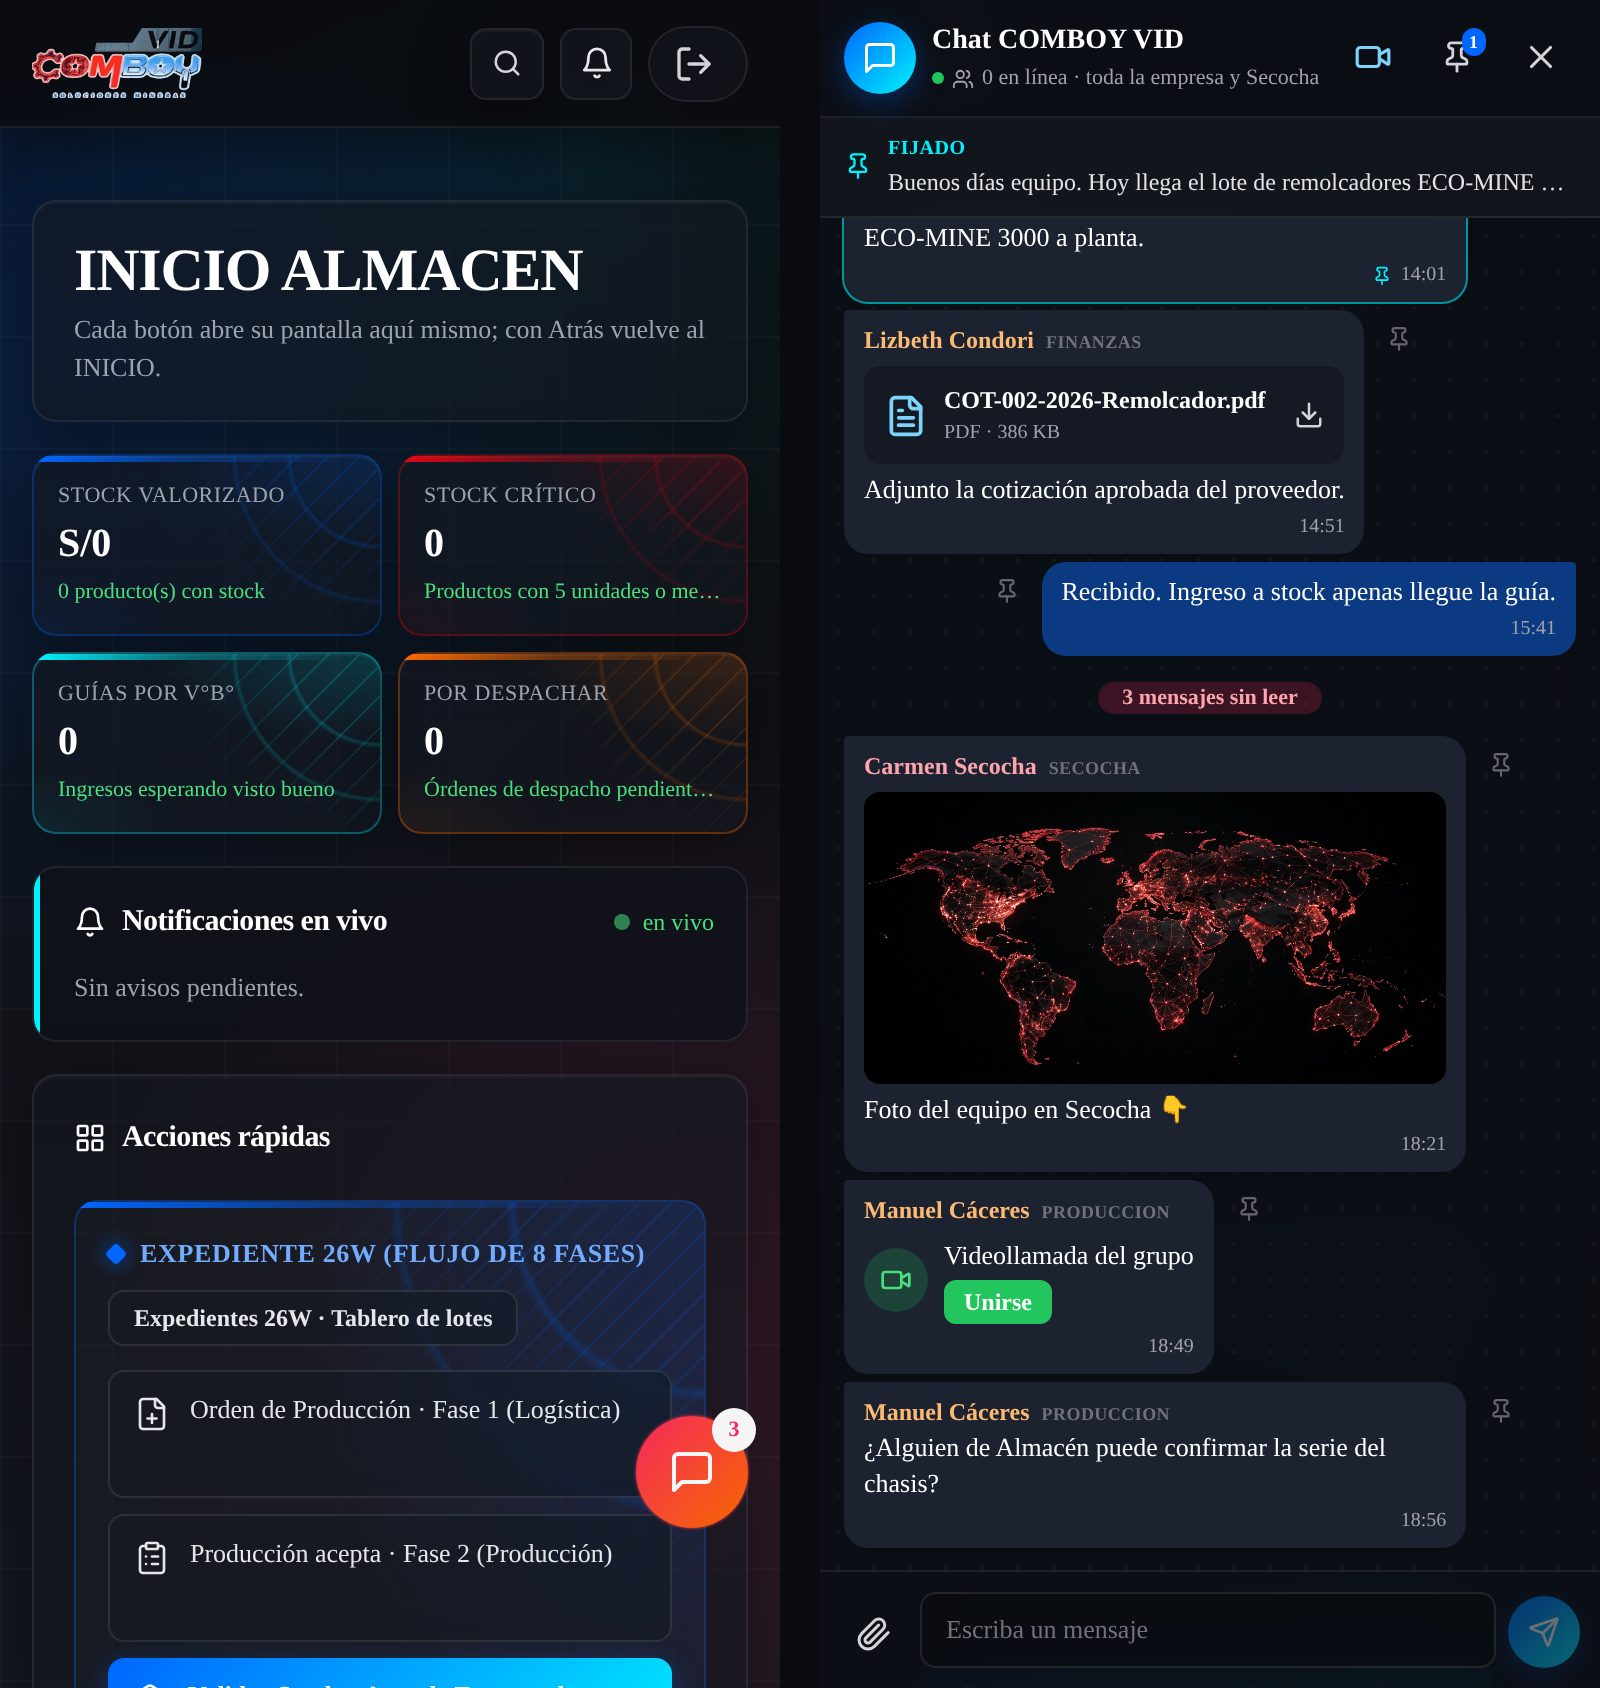
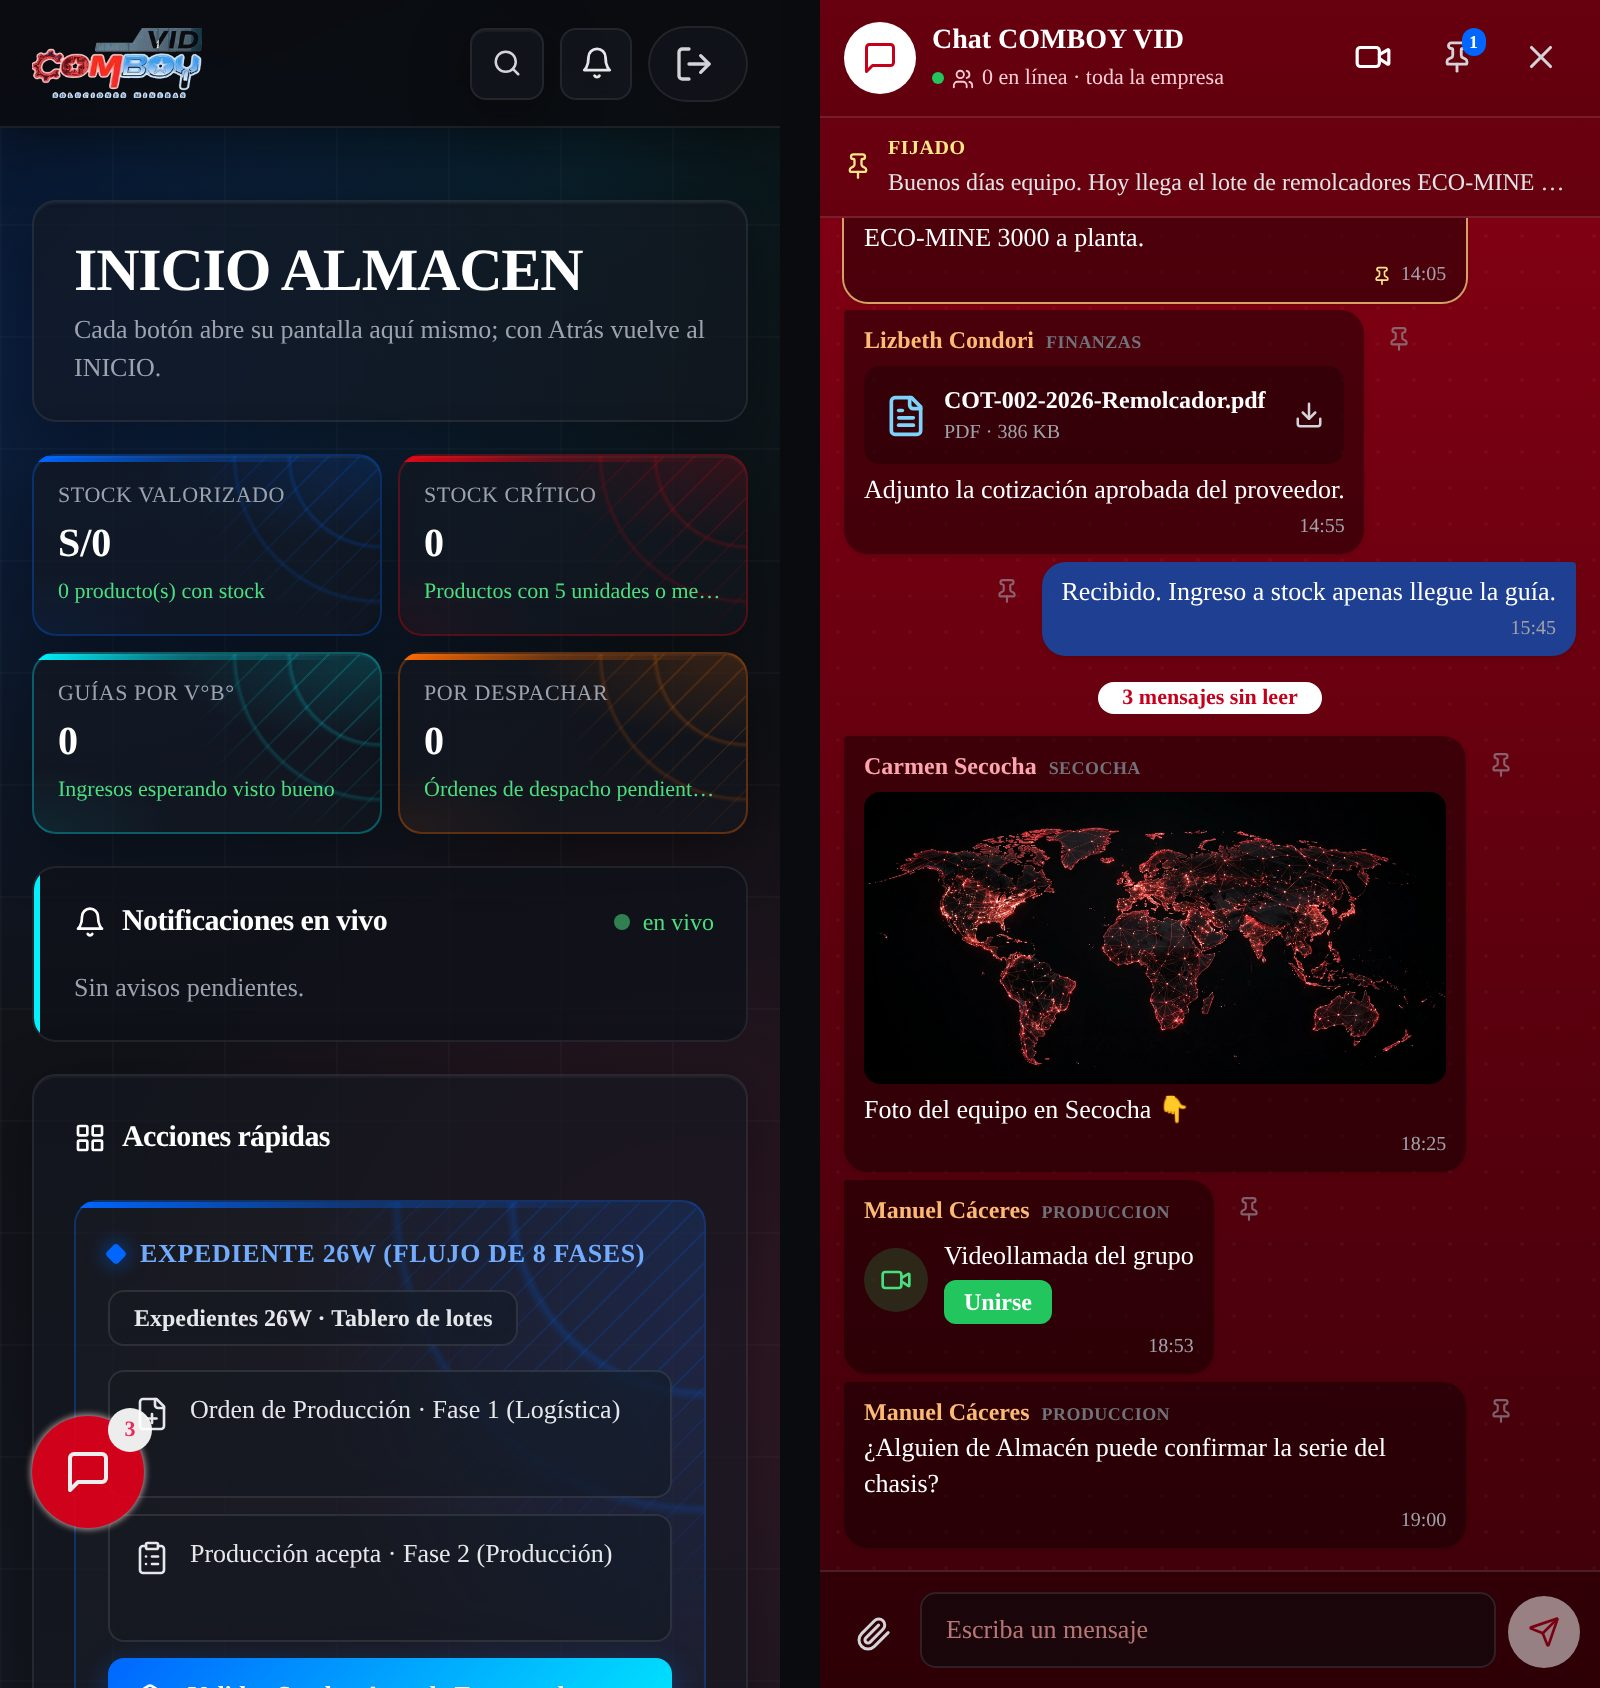
Chat grupal: barra al lado izquierdo con fondo rojo
Claude-Session: https://claude.ai/code/session_01SNK96dJ8PBkEZtQ1b1NvbG

diff --git a/components/chat/ChatGlobal.tsx b/components/chat/ChatGlobal.tsx
@@ -1,14 +1,14 @@
 "use client";
 
 import { useEffect, useMemo, useRef, useState, type FormEvent, type KeyboardEvent } from "react";
-import { ChevronDown, ChevronRight, Download, FileText, MessageSquare, Paperclip, Pin, PinOff, Send, Users, Video, X } from "lucide-react";
+import { ChevronDown, ChevronLeft, Download, FileText, MessageSquare, Paperclip, Pin, PinOff, Send, Users, Video, X } from "lucide-react";
 import type { Sesion } from "@/lib/auth";
 import { MAX_ADJUNTO, esAudio, esImagen, esVideo, tamanoLegible, useChatGlobal, type MensajeChat } from "@/lib/chat";
 import { usePresencia } from "@/lib/presencia";
 
 /** Evento para abrir la barra del chat desde cualquier pantalla: window.dispatchEvent(new Event(EV_ABRIR_CHAT)). */
 export const EV_ABRIR_CHAT = "erp:abrir-chat";
-export const ANCHO_CHAT = "lg:pr-[360px]";
+export const ANCHO_CHAT = "lg:pl-[360px]";
 
 const hora = (iso: string) => new Date(iso).toLocaleTimeString("es-PE", { hour: "2-digit", minute: "2-digit", hour12: false });
 const dia = (iso: string) => {
@@ -160,11 +160,11 @@ export function ChatGlobal({ sesion, modulo, abierto, setAbierto }: { sesion: Se
         aria-label={sinLeer ? `Abrir chat grupal: ${sinLeer} mensajes sin leer` : "Abrir chat grupal"}
         title="Chat grupal COMBOY VID"
         className={`chat-barra fixed z-30 flex items-center justify-center gap-2 text-white shadow-2xl print:hidden ${
-          movil ? "bottom-20 right-4 h-14 w-14 rounded-full" : "right-0 top-1/2 h-auto w-11 -translate-y-1/2 flex-col rounded-l-xl border border-r-0 px-1 py-4"
-        } ${sinLeer ? "chat-parpadeo grad-fuego border-[#ff6a00]" : "glass-barra border-white/[0.12] hover-cian"}`}
+          movil ? "bottom-20 left-4 h-14 w-14 rounded-full" : "left-0 top-1/2 h-auto w-11 -translate-y-1/2 flex-col rounded-r-xl border border-l-0 px-1 py-4"
+        } ${sinLeer ? "chat-parpadeo border-white/40 bg-[#e0001b]" : "border-white/[0.15] bg-[#9b0016] hover:bg-[#c4001c]"}`}
       >
         <MessageSquare size={movil ? 24 : 19} />
-        {!movil && <span className="text-[11px] font-bold uppercase tracking-[0.2em] [writing-mode:vertical-rl]">Chat grupal</span>}
+        {!movil && <span className="text-[11px] font-bold uppercase tracking-[0.2em] [writing-mode:vertical-rl] rotate-180">Chat grupal</span>}
         {sinLeer > 0 && (
           <span className={`${movil ? "absolute -right-1 -top-1" : ""} min-w-[22px] rounded-full bg-white px-1.5 text-center text-[11px] font-bold leading-[22px] text-[#ff2a5f]`}>{sinLeer > 99 ? "99+" : sinLeer}</span>
         )}
@@ -181,23 +181,23 @@ export function ChatGlobal({ sesion, modulo, abierto, setAbierto }: { sesion: Se
     <aside
       aria-label="Chat grupal"
       data-sin-guardar
-      className={`chat-barra fixed z-30 flex flex-col border-white/[0.1] bg-[#0b0e14]/95 backdrop-blur-xl print:hidden ${
-        movil ? "inset-0 z-[75]" : "bottom-0 right-0 top-16 w-[360px] border-l"
+      className={`chat-barra chat-rojo fixed z-30 flex flex-col border-white/[0.12] print:hidden ${
+        movil ? "inset-0 z-[75]" : "bottom-0 left-0 top-16 w-[360px] border-r"
       }`}
     >
       {/* Encabezado */}
-      <header className="flex items-center gap-2 border-b border-white/[0.08] px-3 py-2.5">
-        <span className="grad-azul flex h-9 w-9 shrink-0 items-center justify-center rounded-full">
+      <header className="flex items-center gap-2 border-b border-white/[0.12] bg-black/25 px-3 py-2.5">
+        <span className="flex h-9 w-9 shrink-0 items-center justify-center rounded-full bg-white text-[#c4001c]">
           <MessageSquare size={18} />
         </span>
         <div className="min-w-0 flex-1">
           <p className="truncate text-[14px] font-bold text-white">Chat COMBOY VID</p>
-          <p className="flex items-center gap-1 truncate text-[11px] text-[#a1a1aa]" title={conectados.map((c) => `${c.nombre || c.usuario} (${c.modulo})`).join(", ")}>
+          <p className="flex items-center gap-1 truncate text-[11px] text-[#fecdd3]" title={conectados.map((c) => `${c.nombre || c.usuario} (${c.modulo})`).join(", ")}>
             <span className="h-1.5 w-1.5 rounded-full bg-[#22c55e]" aria-hidden />
             <Users size={11} /> {conectados.length} en línea · toda la empresa
           </p>
         </div>
-        <button type="button" onClick={videollamada} disabled={faltaTabla} title="Iniciar videollamada del grupo" aria-label="Iniciar videollamada" className="rounded-lg p-2 text-[#7dd3fc] hover:bg-white/[0.06] disabled:opacity-40">
+        <button type="button" onClick={videollamada} disabled={faltaTabla} title="Iniciar videollamada del grupo" aria-label="Iniciar videollamada" className="rounded-lg p-2 text-white hover:bg-white/[0.12] disabled:opacity-40">
           <Video size={19} />
         </button>
         <button type="button" onClick={() => setVerFijados((v) => !v)} title="Mensajes fijados" aria-label="Mensajes fijados" aria-pressed={verFijados} className={`relative rounded-lg p-2 hover:bg-white/[0.06] ${verFijados ? "text-[#00f2fe]" : "text-[#d4d4d8]"}`}>
@@ -205,16 +205,16 @@ export function ChatGlobal({ sesion, modulo, abierto, setAbierto }: { sesion: Se
           {fijados.length > 0 && <span className="absolute right-0.5 top-0.5 rounded-full bg-[#0066ff] px-1 text-[9px] font-bold leading-[14px] text-white">{fijados.length}</span>}
         </button>
         <button type="button" onClick={() => setAbierto(false)} title="Ocultar chat" aria-label="Ocultar chat" className="rounded-lg p-2 text-[#d4d4d8] hover:bg-white/[0.06]">
-          {movil ? <X size={19} /> : <ChevronRight size={19} />}
+          {movil ? <X size={19} /> : <ChevronLeft size={19} />}
         </button>
       </header>
 
       {/* Último fijado (como WhatsApp) */}
       {fijados.length > 0 && !verFijados && (
-        <button type="button" onClick={() => irA(fijados[0].id)} className="flex items-center gap-2 border-b border-white/[0.08] bg-white/[0.03] px-3 py-2 text-left hover:bg-white/[0.06]">
-          <Pin size={14} className="shrink-0 text-[#00f2fe]" />
+        <button type="button" onClick={() => irA(fijados[0].id)} className="flex items-center gap-2 border-b border-white/[0.12] bg-black/20 px-3 py-2 text-left hover:bg-black/30">
+          <Pin size={14} className="shrink-0 text-[#fde68a]" />
           <span className="min-w-0 flex-1">
-            <span className="block text-[10px] font-bold uppercase tracking-wide text-[#00f2fe]">Fijado{fijados.length > 1 ? ` · 1 de ${fijados.length}` : ""}</span>
+            <span className="block text-[10px] font-bold uppercase tracking-wide text-[#fde68a]">Fijado{fijados.length > 1 ? ` · 1 de ${fijados.length}` : ""}</span>
             <span className="block truncate text-[12px] text-[#e4e4e7]">{resumen(fijados[0])}</span>
           </span>
         </button>
@@ -223,9 +223,9 @@ export function ChatGlobal({ sesion, modulo, abierto, setAbierto }: { sesion: Se
       {verFijados ? (
         <div className="min-h-0 flex-1 space-y-2 overflow-y-auto p-3">
           <p className="text-[12px] font-bold uppercase tracking-wide text-[#a1a1aa]">Mensajes fijados ({fijados.length})</p>
-          {fijados.length === 0 && <p className="text-[12px] text-[#a1a1aa]">No hay mensajes fijados. Pase el mouse sobre un mensaje y toque el pin.</p>}
+          {fijados.length === 0 && <p className="text-[12px] text-[#fecdd3]">No hay mensajes fijados. Pase el mouse sobre un mensaje y toque el pin.</p>}
           {fijados.map((m) => (
-            <div key={m.id} className="rounded-lg border border-white/[0.08] bg-white/[0.04] p-2.5">
+            <div key={m.id} className="rounded-lg border border-white/[0.12] bg-black/30 p-2.5">
               <button type="button" onClick={() => irA(m.id)} className="block w-full text-left">
                 <span className="block text-[11px] font-semibold" style={{ color: colorDe(m.usuario) }}>
                   {m.nombre || m.usuario} · {dia(m.creado)} {hora(m.creado)}
@@ -270,7 +270,7 @@ export function ChatGlobal({ sesion, modulo, abierto, setAbierto }: { sesion: Se
                 )}
                 {sepNuevo && (
                   <p className="my-2 text-center">
-                    <span className="rounded-full bg-[#ff2a5f]/20 px-3 py-0.5 text-[11px] font-semibold text-[#fda4af]">
+                    <span className="rounded-full bg-white px-3 py-0.5 text-[11px] font-bold text-[#c4001c]">
                       {nuevosAlAbrir} {nuevosAlAbrir === 1 ? "mensaje sin leer" : "mensajes sin leer"}
                     </span>
                   </p>
@@ -286,14 +286,14 @@ export function ChatGlobal({ sesion, modulo, abierto, setAbierto }: { sesion: Se
         <button
           type="button"
           onClick={() => lista.current?.scrollTo({ top: lista.current.scrollHeight, behavior: "smooth" })}
-          className={`absolute bottom-24 right-4 flex items-center gap-1 rounded-full px-3 py-1.5 text-[12px] font-semibold text-white shadow-lg ${sinLeer ? "chat-parpadeo grad-fuego" : "bg-[#212a3a]"}`}
+          className={`absolute bottom-24 right-4 flex items-center gap-1 rounded-full px-3 py-1.5 text-[12px] font-semibold text-white shadow-lg ${sinLeer ? "chat-parpadeo bg-white !text-[#c4001c]" : "bg-black/50"}`}
         >
           <ChevronDown size={14} /> {sinLeer ? `${sinLeer} nuevos` : "Bajar"}
         </button>
       )}
 
       {/* Redactar */}
-      <form onSubmit={mandar} className="border-t border-white/[0.08] p-2.5">
+      <form onSubmit={mandar} className="border-t border-white/[0.12] bg-black/25 p-2.5">
         {archivo && (
           <div className="mb-2 flex items-center gap-2 rounded-lg border border-white/[0.1] bg-white/[0.05] px-2.5 py-1.5 text-[12px] text-white">
             <FileText size={15} className="shrink-0 text-[#7dd3fc]" />
@@ -319,9 +319,9 @@ export function ChatGlobal({ sesion, modulo, abierto, setAbierto }: { sesion: Se
             disabled={faltaTabla}
             placeholder={archivo ? "Agregar un comentario…" : "Escriba un mensaje"}
             aria-label="Mensaje para el chat grupal"
-            className="max-h-32 min-h-[38px] min-w-0 flex-1 resize-none rounded-lg border border-white/[0.08] bg-white/[0.05] px-3 py-2 text-[13px] text-white placeholder:text-[#71717a] focus:border-[#00f2fe] focus:outline-none"
+            className="max-h-32 min-h-[38px] min-w-0 flex-1 resize-none rounded-lg border border-white/[0.08] bg-black/30 px-3 py-2 text-[13px] text-white placeholder:text-[#fca5a5]/70 focus:border-white focus:outline-none"
           />
-          <button type="submit" disabled={enviando || (!texto.trim() && !archivo)} aria-label="Enviar" className="grad-azul rounded-full p-2.5 disabled:opacity-40">
+          <button type="submit" disabled={enviando || (!texto.trim() && !archivo)} aria-label="Enviar" className="rounded-full bg-white p-2.5 text-[#c4001c] disabled:opacity-50">
             <Send size={16} />
           </button>
         </div>
@@ -340,7 +340,7 @@ function resumen(m: MensajeChat): string {
 function Burbuja({ m, mio, url, onFijar, onCarga }: { m: MensajeChat; mio: boolean; url?: string; onFijar: () => void; onCarga: () => void }) {
   return (
     <div id={`chat-msg-${m.id}`} className={`group my-1 flex ${mio ? "justify-end" : "justify-start"} rounded-lg transition-colors`}>
-      <div className={`relative max-w-[85%] rounded-xl px-2.5 py-1.5 shadow ${mio ? "rounded-tr-sm bg-[#0b4fb3]/70" : "rounded-tl-sm bg-[#1c2230]"} ${m.fijado ? "ring-1 ring-[#00f2fe]/60" : ""}`}>
+      <div className={`relative max-w-[85%] rounded-xl px-2.5 py-1.5 shadow ${mio ? "rounded-tr-sm bg-[#0b4fb3]/80" : "rounded-tl-sm bg-black/40"} ${m.fijado ? "ring-1 ring-[#fde68a]/70" : ""}`}>
         {!mio && (
           <span className="flex items-baseline gap-1.5">
             <span className="truncate text-[12px] font-semibold" style={{ color: colorDe(m.usuario) }}>
@@ -368,7 +368,7 @@ function Burbuja({ m, mio, url, onFijar, onCarga }: { m: MensajeChat; mio: boole
           </>
         )}
         <span className="mt-0.5 flex items-center justify-end gap-1 text-[10px] text-[#a1a1aa]">
-          {m.fijado && <Pin size={10} className="text-[#00f2fe]" aria-label="Fijado" />}
+          {m.fijado && <Pin size={10} className="text-[#fde68a]" aria-label="Fijado" />}
           {hora(m.creado)}
         </span>
         <button

diff --git a/app/globals.css b/app/globals.css
@@ -388,8 +388,8 @@ body[data-modo-pestana] [data-guardar-pestana] {
 
 /* ── Chat grupal único (components/chat/ChatGlobal.tsx, 2026-11-16) ───────────────────────────── */
 @keyframes chat-parpadeo {
-  0%, 100% { opacity: 1; box-shadow: 0 0 0 0 rgba(255, 42, 95, 0.7); }
-  50% { opacity: 0.55; box-shadow: 0 0 18px 4px rgba(255, 106, 0, 0.75); }
+  0%, 100% { opacity: 1; box-shadow: 0 0 0 0 rgba(255, 255, 255, 0.7); }
+  50% { opacity: 0.5; box-shadow: 0 0 20px 5px rgba(255, 42, 60, 0.9); }
 }
 .chat-parpadeo { animation: chat-parpadeo 1s ease-in-out infinite; }
 .chat-resaltado { background: rgba(0, 242, 254, 0.14); }
@@ -397,6 +397,8 @@ body[data-modo-pestana] [data-guardar-pestana] {
   background-image: radial-gradient(rgba(255, 255, 255, 0.035) 1px, transparent 1px);
   background-size: 18px 18px;
 }
+/* Fondo rojo de la barra del chat (pedido de Williams 2026-11-16: izquierda, fondo rojo) */
+.chat-rojo { background: linear-gradient(180deg, #8a0014 0%, #5e000e 55%, #3d0009 100%); }
 /* Pestaña "Guardar y Cerrar" (barra fija abajo, z-60): el chat termina encima de ella */
 @media (min-width: 1024px) {
   body[data-modo-pestana] aside.chat-barra { bottom: 64px; }

diff --git a/components/erp/ErpLayout.tsx b/components/erp/ErpLayout.tsx
@@ -97,7 +97,7 @@ export function ErpLayout({
       <main className={`w-full flex-1 transition-[padding] duration-300 ${conChat} ${mainClassName}`}>
         <div className="mx-auto w-full max-w-[1600px] px-4 pt-20 sm:px-6 lg:px-8">{children}</div>
       </main>
-      <footer className={`mt-8 flex flex-wrap items-center justify-between gap-2 glass-blur border-t border-white/[0.08] px-4 py-4 text-xs text-[#a1a1aa] sm:px-6 lg:px-8 ${chatAbierto ? "lg:pr-[376px]" : ""}`}>
+      <footer className={`mt-8 flex flex-wrap items-center justify-between gap-2 glass-blur border-t border-white/[0.08] px-4 py-4 text-xs text-[#a1a1aa] sm:px-6 lg:px-8 ${chatAbierto ? "lg:pl-[376px]" : ""}`}>
         <span>
           <span className="font-semibold text-white">{NOMBRE_EMPRESA}</span> © 2025 · ERP COMBOY VID · Sede {sede} · Área Informática
         </span>
